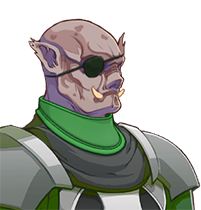
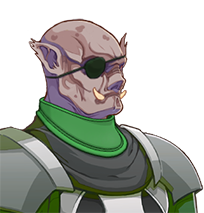
Micro changes

diff --git a/Bust Config.rb b/Bust Config.rb
@@ -758,10 +758,10 @@ Busty::BASE_CONFIG.merge!({
     face_offset_y: 19,
   },
   "Orcent2" => {
-    bust_scale: 0.73,
-    face_offset_x: 35,
+    bust_scale: 0.74,
+    face_offset_x: 36,
     face_offset_y: 26,
-    face_border_width: 15,
+    face_border_width: [0, 0, 20, 15],
   },
   "Grubbak" => {
     bust_scale: 0.73,
@@ -790,6 +790,7 @@ Busty::BASE_CONFIG.merge!({
     bust_scale: 0.75,
     face_offset_x: 63,
     face_offset_y: 34,
+    face_z: -1,
   },
   "Simon2" => {
     bust_scale: 0.75,
